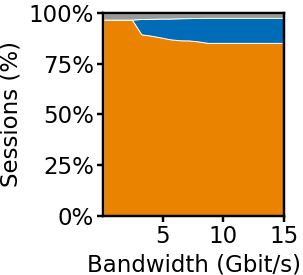
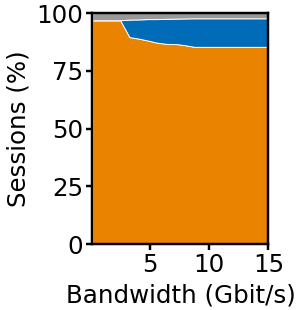
Enlarge OAT panels to fill the NSDI column at 8 pt type
Grow the axes box to 0.80x1.05 in (from 0.82x0.92) and raise labels and
ticks to 8 pt with a 7 pt legend, paying for the wider type by dropping
the redundant % from the y ticks. The pair now measures 1.35 in + 1.90
in, so it fills a 3.33 in column at 0.405/0.571 columnwidth instead of
being scaled down from 0.36/0.5.

Changed region(s): [[0.0909, 0.0, 1.0, 1.0], [0.0, 0.1455, 0.0909, 0.6982]]

diff --git a/agent-migrate/queue-haul/workload_adaptation_campaign.py b/agent-migrate/queue-haul/workload_adaptation_campaign.py
@@ -1066,10 +1066,9 @@ def plot_action_boxplot(rows, path):
 def plot_oat(rows, path):
     from matplotlib.ticker import PercentFormatter
 
-    fs = plot_style.HALF_COLUMN_FONT_SIZE
-    legend_fs = plot_style.HALF_COLUMN_LEGEND_FONT_SIZE
-    left, axes_w, axes_h, bottom, top = .47, .82, .92, .27, .06
-    legend_w, right = .64, .09
+    fs, legend_fs = 8, 7
+    left, axes_w, axes_h, bottom, top = .42, .80, 1.05, .30, .06
+    legend_w, right = .68, .13
     for sweep in ("bandwidth", "prefill"):
         wide = sweep == "prefill"
         fig_w = left + axes_w + (legend_w if wide else right)
@@ -1100,10 +1099,10 @@ def plot_oat(rows, path):
         )
         ax.margins(0)
         ax.set_ylabel("Sessions (%)")
-        ax.yaxis.set_major_formatter(PercentFormatter(1))
+        ax.yaxis.set_major_formatter(PercentFormatter(1, symbol=""))
         ax.yaxis.set_major_locator(plt.MultipleLocator(.25))
         ax.xaxis.set_major_locator(plt.MultipleLocator(5))
-        plot_style.half_column(ax)
+        ax.tick_params(labelsize=fs, length=2, pad=1)
         ax.xaxis.label.set_size(fs)
         ax.yaxis.label.set_size(fs)
         ax.xaxis.labelpad = ax.yaxis.labelpad = 2
